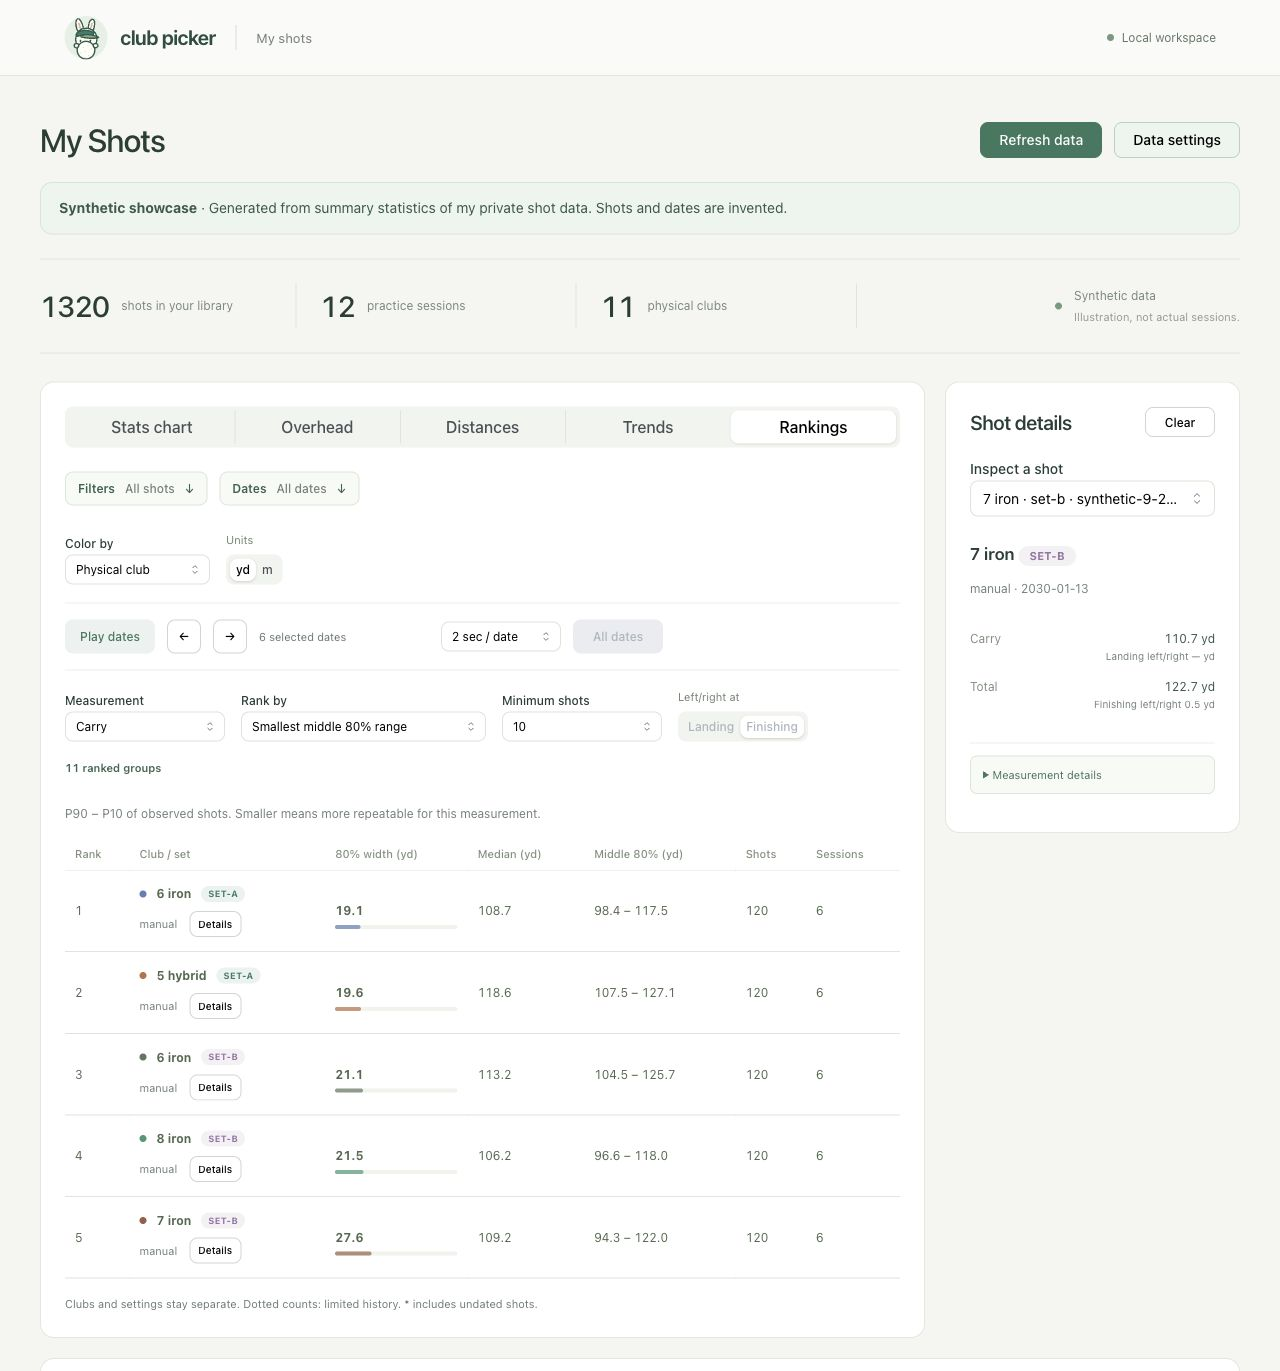
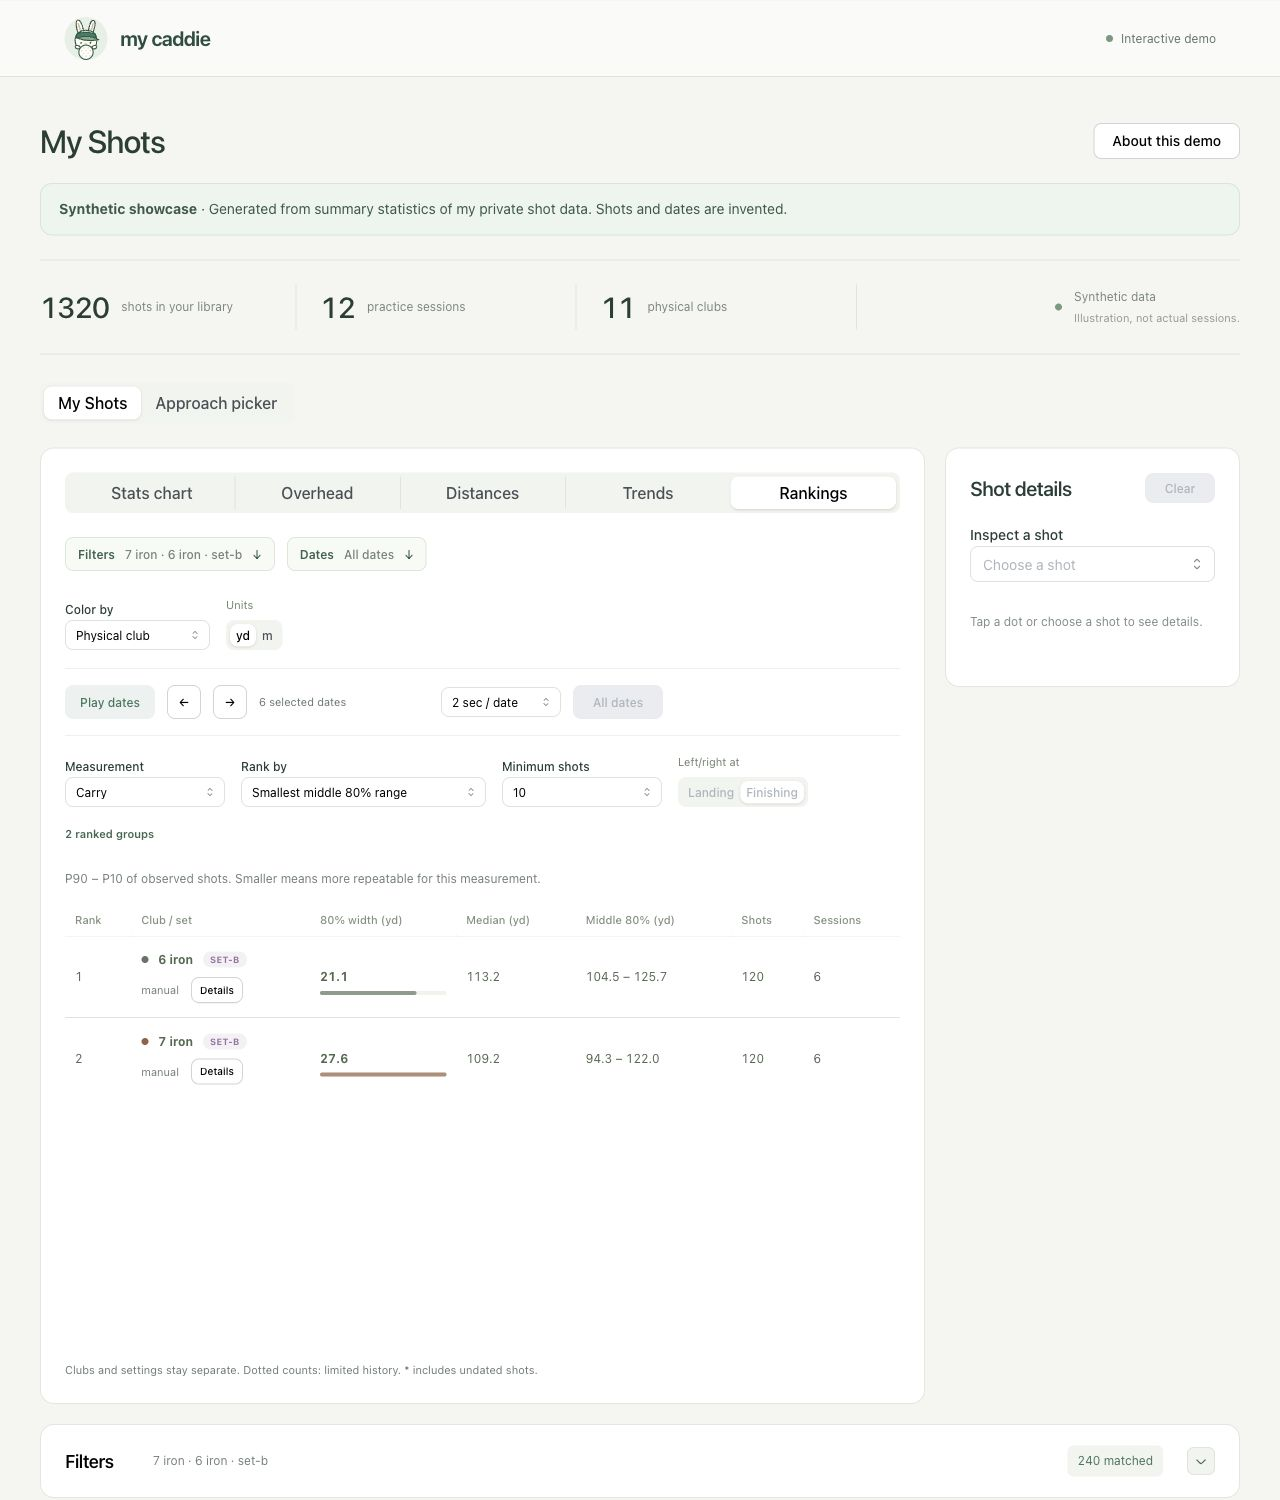
style: rename the app to My Caddie and simplify header

diff --git a/web/src/App.tsx b/web/src/App.tsx
@@ -390,9 +390,7 @@ export function App() {
             src={`${import.meta.env.BASE_URL}bunny-caddie.svg`}
             alt="Bunny caddie"
           />{" "}
-          club picker
-          <span className="brand-divider" />{" "}
-          <span className="brand-section">My shots</span>
+          my caddie
         </div>
         <span className="local-label">
           <i /> {showcase ? "Interactive demo" : "Local workspace"}
@@ -1220,7 +1218,7 @@ export function App() {
           </>
         )}
         <footer>
-          <span>Club Picker</span>
+          <span>My Caddie</span>
           <span>
             {showcase
               ? "Synthetic shots. No account. No uploads."

diff --git a/web/src/styles.css b/web/src/styles.css
@@ -53,18 +53,6 @@ summary:focus-visible {
   border-radius: 50%;
   font-size: 24px;
 }
-.brand-divider {
-  height: 24px;
-  width: 1px;
-  background: #d8ded7;
-  margin: 0 8px;
-}
-.brand-section {
-  font-size: 13px;
-  color: #7a867e;
-  font-weight: 450;
-  letter-spacing: 0;
-}
 .local-label {
   font-size: 12px;
   color: #65766b;
@@ -822,10 +810,6 @@ footer {
   .topbar {
     padding: 0 20px;
     height: 64px;
-  }
-  .brand-section,
-  .brand-divider {
-    display: none;
   }
   .shot-chart {
     height: 380px;

diff --git a/web/index.html b/web/index.html
@@ -5,7 +5,7 @@
     <meta name="viewport" content="width=device-width, initial-scale=1.0" />
     <meta name="theme-color" content="#244e42" />
     <link rel="icon" type="image/svg+xml" href="/bunny-caddie.svg" />
-    <title>Club Picker · My shots</title>
+    <title>My Caddie · My Shots</title>
   </head>
   <body>
     <div id="root"></div>

diff --git a/web/src/storage.ts b/web/src/storage.ts
@@ -20,7 +20,7 @@ export function download(snapshot: Snapshot): void {
   );
   const a = document.createElement("a");
   a.href = url;
-  a.download = "club-picker-private-backup.json";
+  a.download = "my-caddie-private-backup.json";
   document.body.appendChild(a);
   a.click();
   a.remove();

diff --git a/docs/development.md b/docs/development.md
@@ -1,5 +1,8 @@
 # Development Setup
 
+The app is called **My Caddie**. The repository, Python package, CLI, and snapshot
+format keep their `club-picker` / `club_picker` identifiers for compatibility.
+
 The package provides a local manual CSV importer, private SQLite storage, and
 a shot-data audit. See the [import guide](data-import.md) for a runnable synthetic
 walkthrough. The [local explorer](explorer.md) adds a React/TypeScript UI over

diff --git a/README.md b/README.md
@@ -1,4 +1,4 @@
-# Club Picker
+# My Caddie
 
 Building a personalized golf caddie from my own shot data.
 
